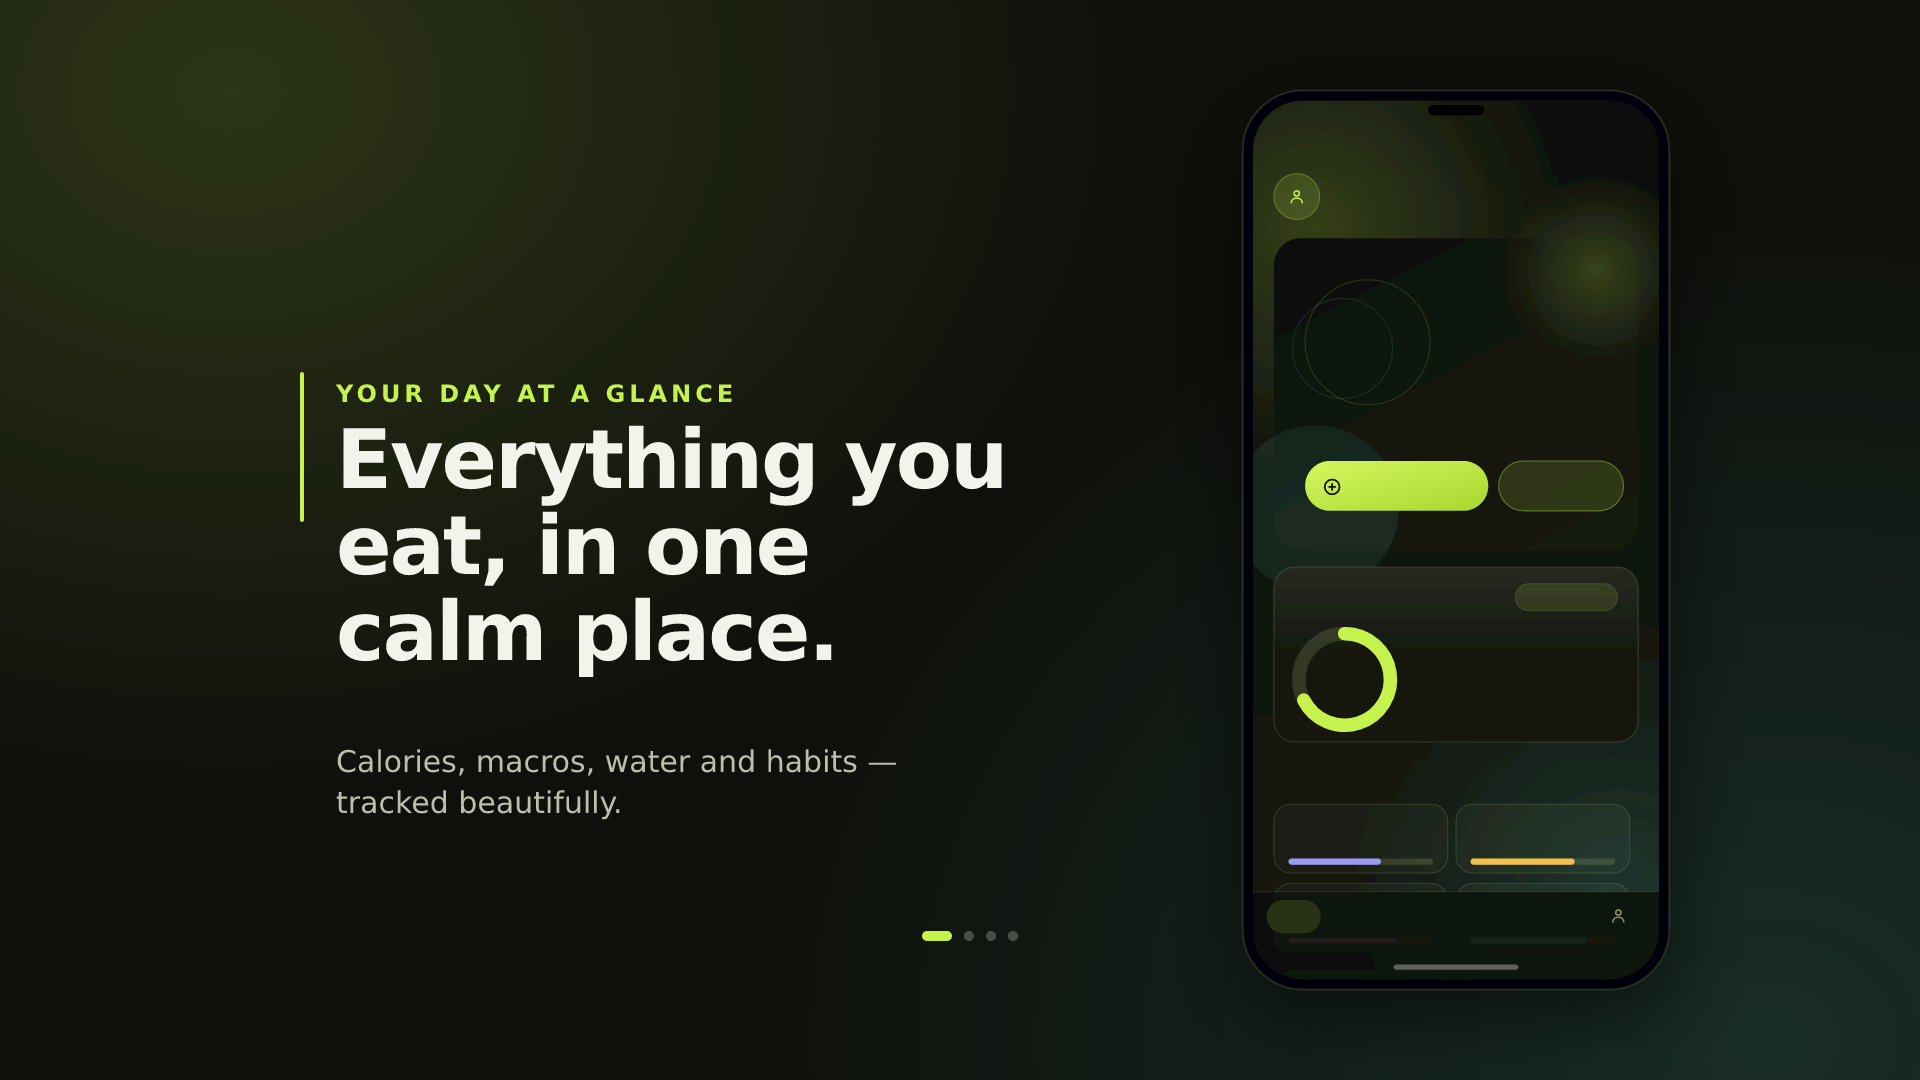
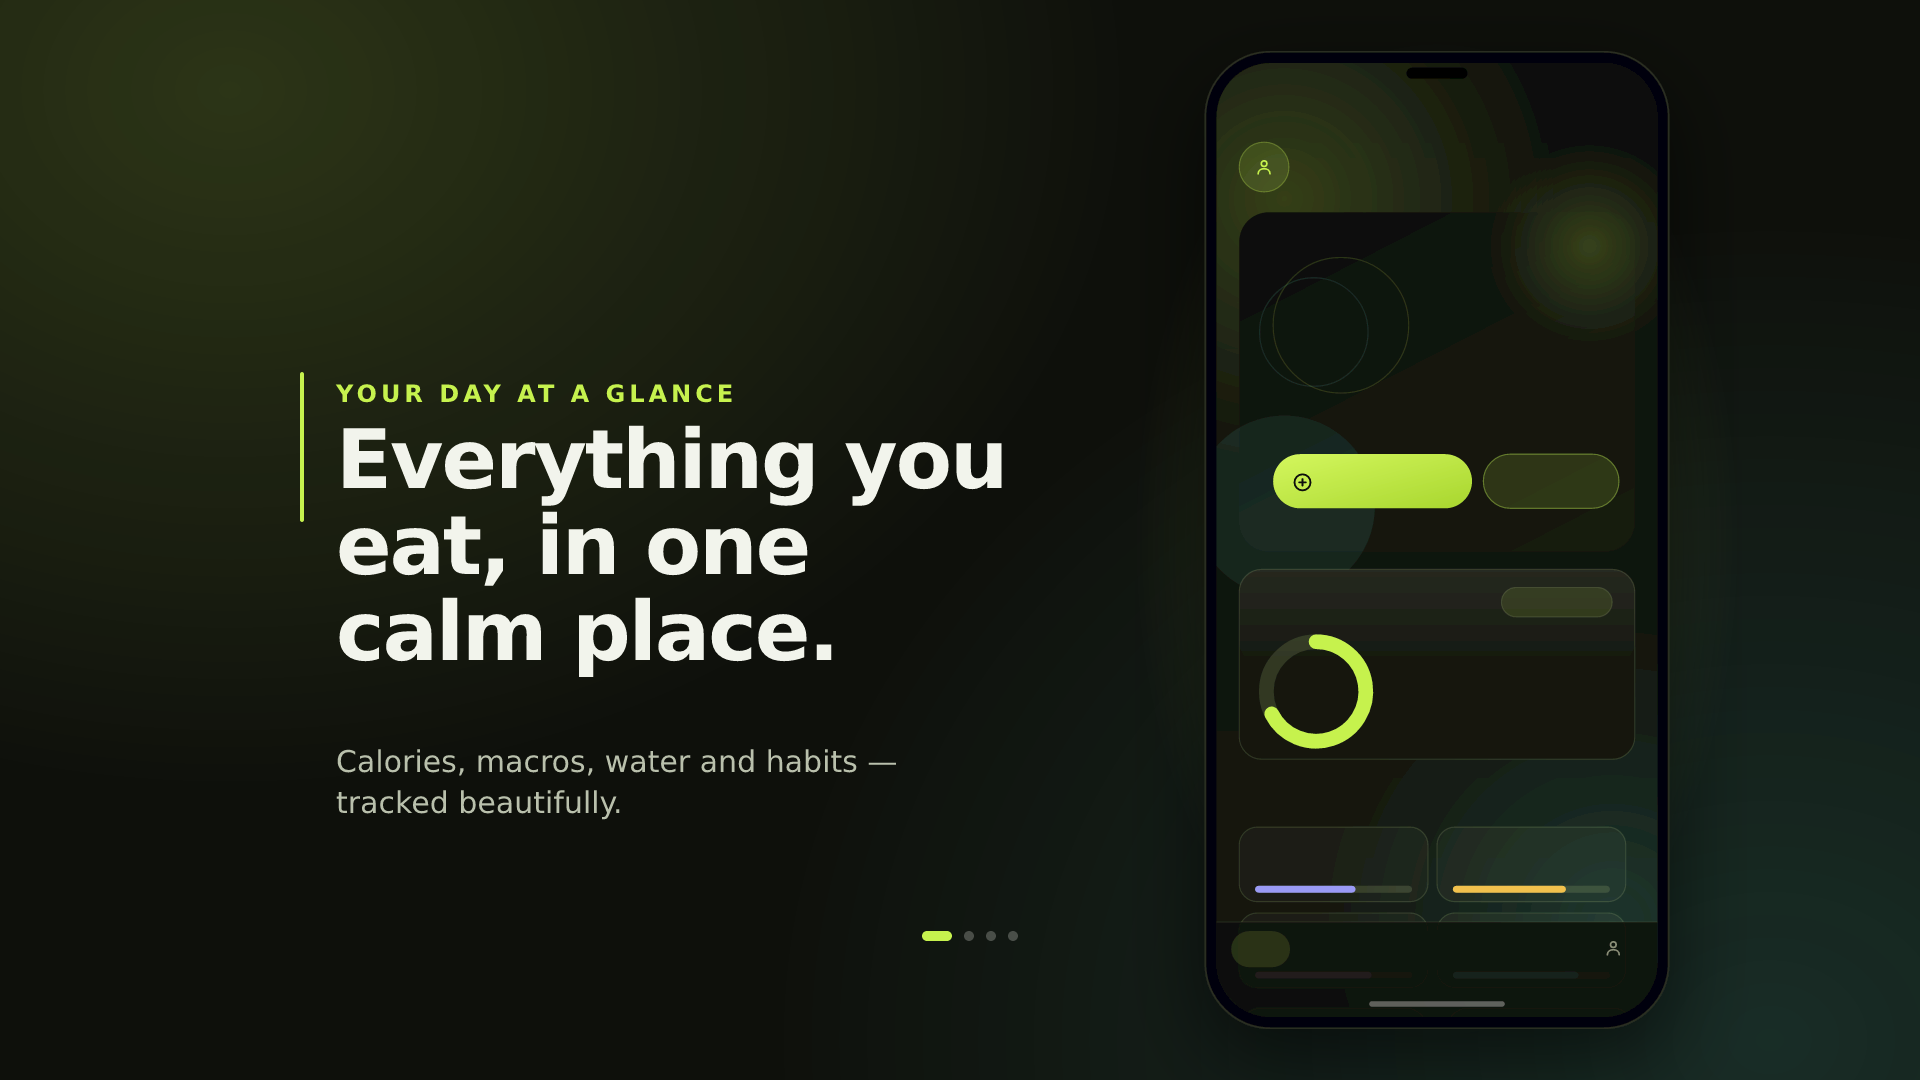
Promo preview: add lime glow behind phone so app features read clearly

diff --git a/remotion/src/scenes/SceneView.tsx b/remotion/src/scenes/SceneView.tsx
@@ -53,7 +53,7 @@ export const SceneView: React.FC<{ scene: Scene; index: number; total: number }>
     return { opacity: p, transform: `translateY(${(1 - p) * dist}px)` };
   };
 
-  const phoneH = 840;
+  const phoneH = 1000;
   const phoneW = phoneH * (430 / 884);
   const phoneX = SAFE.x + SAFE.w - phoneW; // right edge of title-safe
   const phoneY = SAFE.y + (SAFE.h - phoneH) / 2;
@@ -124,6 +124,22 @@ export const SceneView: React.FC<{ scene: Scene; index: number; total: number }>
             {scene.subline}
           </div>
         </div>
+
+        {/* glow behind phone so the dark app screen pops from the background */}
+        {scene.phone && (
+          <div
+            style={{
+              position: "absolute",
+              left: phoneX - 50,
+              top: phoneY,
+              width: phoneW + 100,
+              height: phoneH,
+              background:
+                "radial-gradient(closest-side, rgba(198,242,78,0.20), transparent 72%)",
+              pointerEvents: "none",
+            }}
+          />
+        )}
 
         {/* the real app screen */}
         {scene.phone && (
